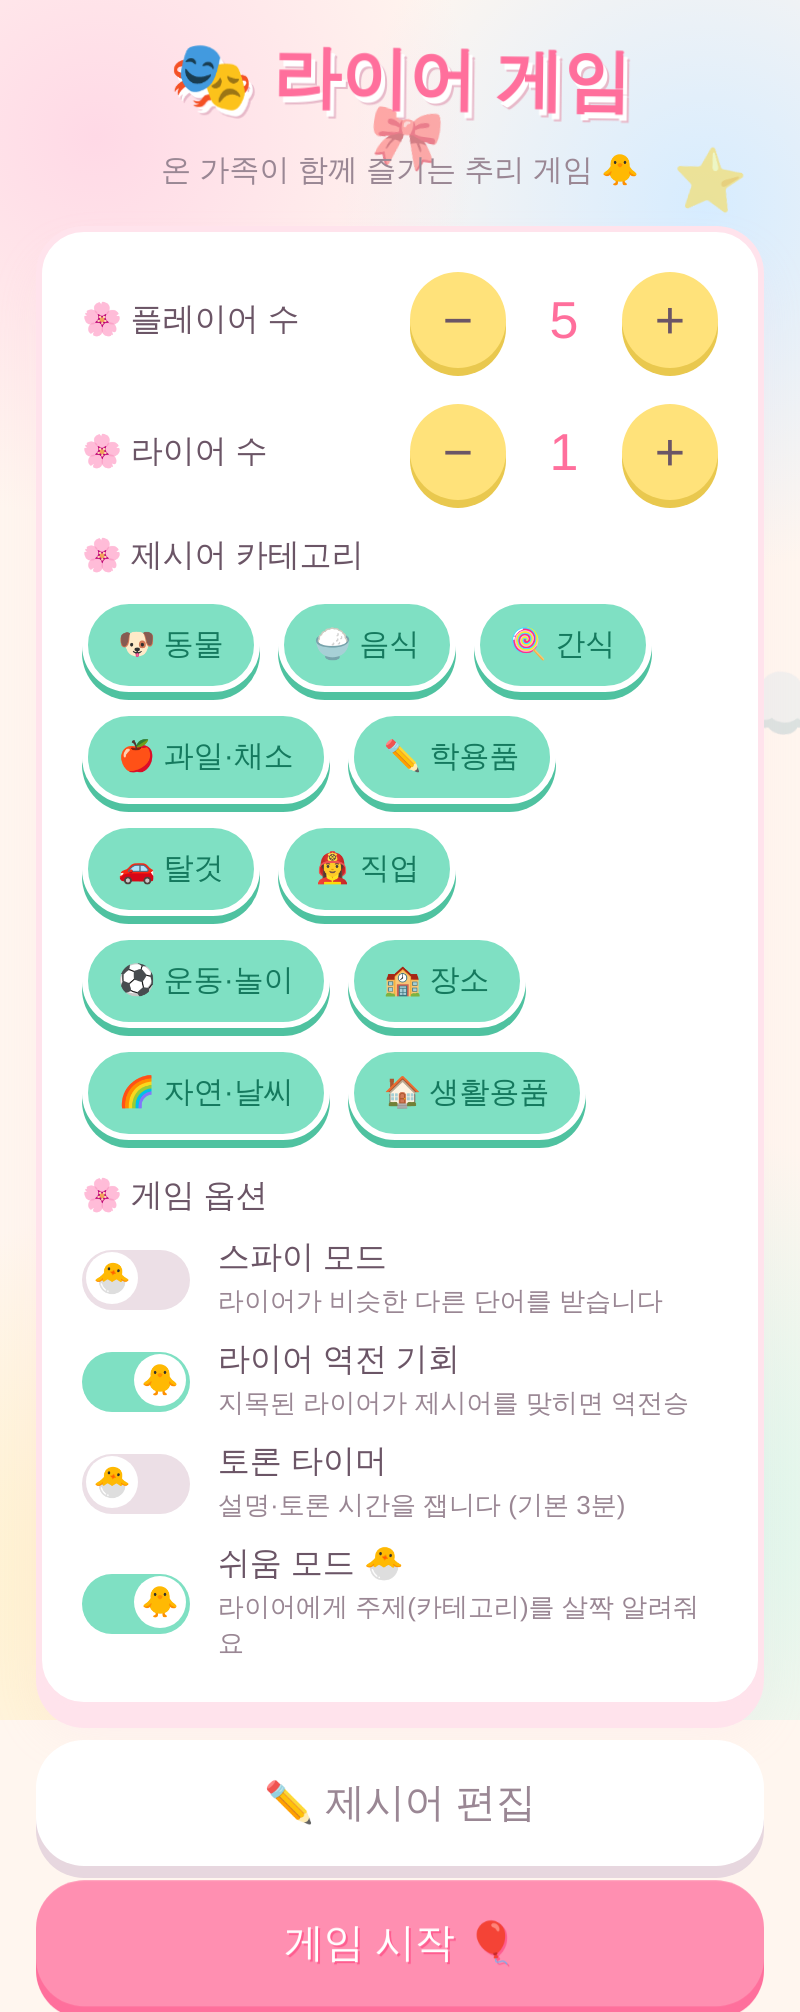
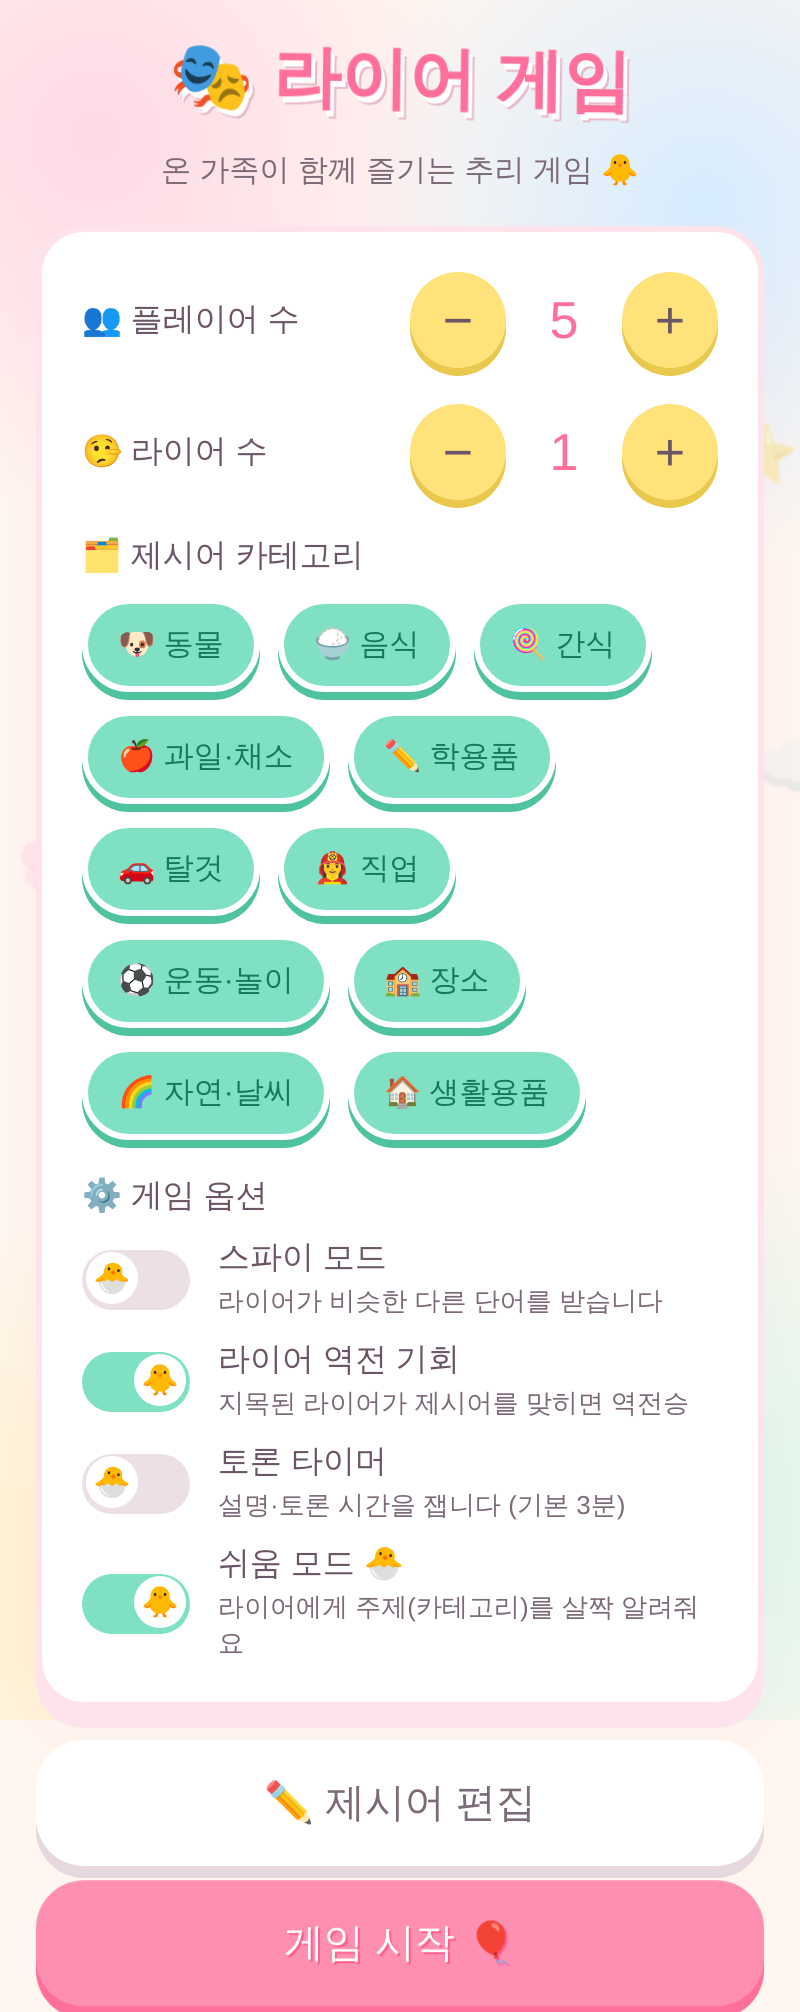
디자인 리뷰 반영: 장식 겹침/카드 힌트 가독성/결과 정리/라벨 다듬기
- 배경 장식 투명도↓(.5→.3)+blur, 헤더 영역 피해 재배치, 핸드오프 텍스트 그림자
- 카드 힌트(role-desc) 반투명 흰 박스+진한 글씨로 대비 확보
- 결과 버튼 라벨 1줄 축약(다시 하기/처음으로), 결과 카드 수직 중앙 정렬
- 필드 라벨 🌸 반복 제거→의미 아이콘(👥🤥🗂⚙💬🕵📝), --ink-soft 대비 강화
- 스크린샷 6컷 갱신

diff --git a/style.css b/style.css
@@ -9,7 +9,7 @@
   --lemon: #ffe27a;
   --grape: #c4a7ff;
   --ink: #6b5566;
-  --ink-soft: #9a8794;
+  --ink-soft: #7d6a78;
   --white: #ffffff;
   --shadow: #e7b9c9;
   --radius: 24px;
@@ -47,17 +47,18 @@ body {
 /* ===== 떠다니는 배경 장식 ===== */
 .bg-decor { position: fixed; inset: 0; z-index: 0; pointer-events: none; overflow: hidden; }
 .bg-decor span {
-  position: absolute; font-size: 30px; opacity: .5;
+  position: absolute; font-size: 28px; opacity: .3; filter: blur(.4px);
   animation: floaty linear infinite;
 }
-.bg-decor span:nth-child(1) { left: 6%;  top: 14%; font-size: 34px; animation-duration: 13s; }
-.bg-decor span:nth-child(2) { left: 84%; top: 10%; animation-duration: 17s; animation-delay: -3s; }
-.bg-decor span:nth-child(3) { left: 14%; top: 70%; font-size: 38px; animation-duration: 15s; animation-delay: -6s; }
-.bg-decor span:nth-child(4) { left: 78%; top: 64%; animation-duration: 19s; animation-delay: -2s; }
-.bg-decor span:nth-child(5) { left: 46%; top: 8%;  animation-duration: 16s; animation-delay: -9s; }
-.bg-decor span:nth-child(6) { left: 90%; top: 40%; font-size: 40px; animation-duration: 21s; animation-delay: -5s; }
-.bg-decor span:nth-child(7) { left: 4%;  top: 44%; animation-duration: 18s; animation-delay: -11s; }
-.bg-decor span:nth-child(8) { left: 60%; top: 84%; animation-duration: 14s; animation-delay: -1s; }
+/* 헤더(상단 중앙) 영역을 피해 가장자리·하단 위주로 배치 */
+.bg-decor span:nth-child(1) { left: 3%;  top: 34%; font-size: 32px; animation-duration: 13s; }
+.bg-decor span:nth-child(2) { left: 91%; top: 26%; animation-duration: 17s; animation-delay: -3s; }
+.bg-decor span:nth-child(3) { left: 7%;  top: 66%; font-size: 36px; animation-duration: 15s; animation-delay: -6s; }
+.bg-decor span:nth-child(4) { left: 86%; top: 60%; animation-duration: 19s; animation-delay: -2s; }
+.bg-decor span:nth-child(5) { left: 48%; top: 90%; animation-duration: 16s; animation-delay: -9s; }
+.bg-decor span:nth-child(6) { left: 93%; top: 44%; font-size: 34px; animation-duration: 21s; animation-delay: -5s; }
+.bg-decor span:nth-child(7) { left: 2%;  top: 50%; animation-duration: 18s; animation-delay: -11s; }
+.bg-decor span:nth-child(8) { left: 62%; top: 80%; animation-duration: 14s; animation-delay: -1s; }
 @keyframes floaty {
   0%   { transform: translateY(0) rotate(0deg); }
   50%  { transform: translateY(-26px) rotate(12deg); }
@@ -93,7 +94,6 @@ body {
 .field { display: flex; flex-direction: column; gap: 10px; }
 .field-row { flex-direction: row; align-items: center; justify-content: space-between; }
 .field-label { font-size: 16px; color: var(--ink); }
-.field-label::before { content: "🌸 "; }
 
 /* ===== 스테퍼 ===== */
 .stepper { display: flex; align-items: center; gap: 14px; }
@@ -160,7 +160,7 @@ body {
 /* ===== 역할 확인 ===== */
 .reveal-wrap { flex: 1; display: flex; flex-direction: column; align-items: center; justify-content: center; gap: 20px; text-align: center; }
 .progress-text { color: var(--ink-soft); font-size: 15px; background: #fff; padding: 4px 14px; border-radius: 999px; box-shadow: 0 3px 0 #ffe3ec; }
-#reveal-handoff { font-size: 24px; color: var(--pink-deep); }
+#reveal-handoff { font-size: 24px; color: var(--pink-deep); text-shadow: 1px 1px 0 #fff, 0 0 8px #fff8; }
 .role-card { width: 100%; max-width: 320px; aspect-ratio: 3 / 4; perspective: 1200px; cursor: pointer; position: relative; }
 .role-card:active { transform: scale(.98); }
 .card-face {
@@ -191,7 +191,10 @@ body {
 .card-hint .big-emoji { display: block; font-size: 64px; margin-bottom: 8px; animation: bob 2s ease-in-out infinite; }
 .role-label { font-size: 20px; color: var(--ink-soft); }
 .role-word { font-size: 46px; color: var(--pink-deep); text-shadow: 2px 2px 0 #fff; }
-.role-desc { font-size: 15px; color: var(--ink-soft); line-height: 1.55; white-space: pre-line; }
+.role-desc {
+  font-size: 15px; color: #5b4a55; line-height: 1.5; white-space: pre-line;
+  background: rgba(255, 255, 255, .62); padding: 9px 14px; border-radius: 14px;
+}
 
 /* ===== 점수판 ===== */
 .scoreboard {
@@ -239,6 +242,8 @@ body {
 
 /* ===== 결과 화면 연출 ===== */
 #screen-result { position: relative; }
+/* 제목+결과 카드를 버튼 위 공간의 수직 중앙으로 */
+#screen-result .title { margin-top: auto; }
 #screen-result.win #result-title { animation: titlePop .6s cubic-bezier(.34,1.7,.5,1) both; }
 #screen-result.lose #result-title { animation: titleSad .6s ease both; }
 @keyframes titlePop { 0% { transform: scale(.3) rotate(-12deg); opacity: 0; } 60% { transform: scale(1.15) rotate(4deg); } 100% { transform: scale(1) rotate(0); opacity: 1; } }

diff --git a/index.html b/index.html
@@ -26,7 +26,7 @@
 
       <div class="card-panel">
         <label class="field field-row">
-          <span class="field-label">플레이어 수</span>
+          <span class="field-label">👥 플레이어 수</span>
           <div class="stepper">
             <button type="button" id="player-minus" class="step-btn">−</button>
             <span id="player-count">4</span>
@@ -35,7 +35,7 @@
         </label>
 
         <label class="field field-row">
-          <span class="field-label">라이어 수</span>
+          <span class="field-label">🤥 라이어 수</span>
           <div class="stepper">
             <button type="button" id="liar-minus" class="step-btn">−</button>
             <span id="liar-count">1</span>
@@ -44,13 +44,13 @@
         </label>
 
         <div class="field">
-          <span class="field-label">제시어 카테고리</span>
+          <span class="field-label">🗂 제시어 카테고리</span>
           <div id="category-list" class="chip-group"><!-- JS로 채움 --></div>
           <p id="cat-warning" class="warn-text hidden">카테고리를 하나 이상 골라줘! 🥺</p>
         </div>
 
         <div class="field">
-          <span class="field-label">게임 옵션</span>
+          <span class="field-label">⚙ 게임 옵션</span>
           <label class="toggle">
             <input type="checkbox" id="opt-spy" />
             <span class="toggle-text">
@@ -104,16 +104,16 @@
 
       <div class="card-panel">
         <label class="field">
-          <span class="field-label">카테고리</span>
+          <span class="field-label">🗂 카테고리</span>
           <input id="edit-category" class="text-input" list="cat-options" placeholder="기존 선택 또는 새 카테고리 입력" />
           <datalist id="cat-options"></datalist>
         </label>
         <label class="field">
-          <span class="field-label">제시어 (시민 단어)</span>
+          <span class="field-label">💬 제시어 (시민 단어)</span>
           <input id="edit-word" class="text-input" placeholder="예: 사과" />
         </label>
         <label class="field">
-          <span class="field-label">스파이 단어 (선택)</span>
+          <span class="field-label">🕵 스파이 단어 (선택)</span>
           <input id="edit-spy" class="text-input" placeholder="비슷한 단어 (스파이 모드용)" />
         </label>
         <p id="edit-warning" class="warn-text hidden"></p>
@@ -125,7 +125,7 @@
 
       <div class="card-panel">
         <div class="field-label-row">
-          <span class="field-label">내가 추가한 단어</span>
+          <span class="field-label">📝 내가 추가한 단어</span>
           <button id="btn-clear-words" class="mini-btn">전체 삭제</button>
         </div>
         <div id="custom-list" class="custom-list"></div>
@@ -220,8 +220,8 @@
         <p class="result-meta">🏆 시민 <b id="result-score-citizens">0</b>승 · 라이어 <b id="result-score-liars">0</b>승 <span id="result-round"></span></p>
       </div>
       <div class="btn-row">
-        <button id="btn-replay" class="primary-btn">같은 설정으로 다시</button>
-        <button id="btn-home" class="primary-btn ghost">설정으로</button>
+        <button id="btn-replay" class="primary-btn">다시 하기 🔄</button>
+        <button id="btn-home" class="primary-btn ghost">처음으로 🏠</button>
       </div>
     </section>
 
